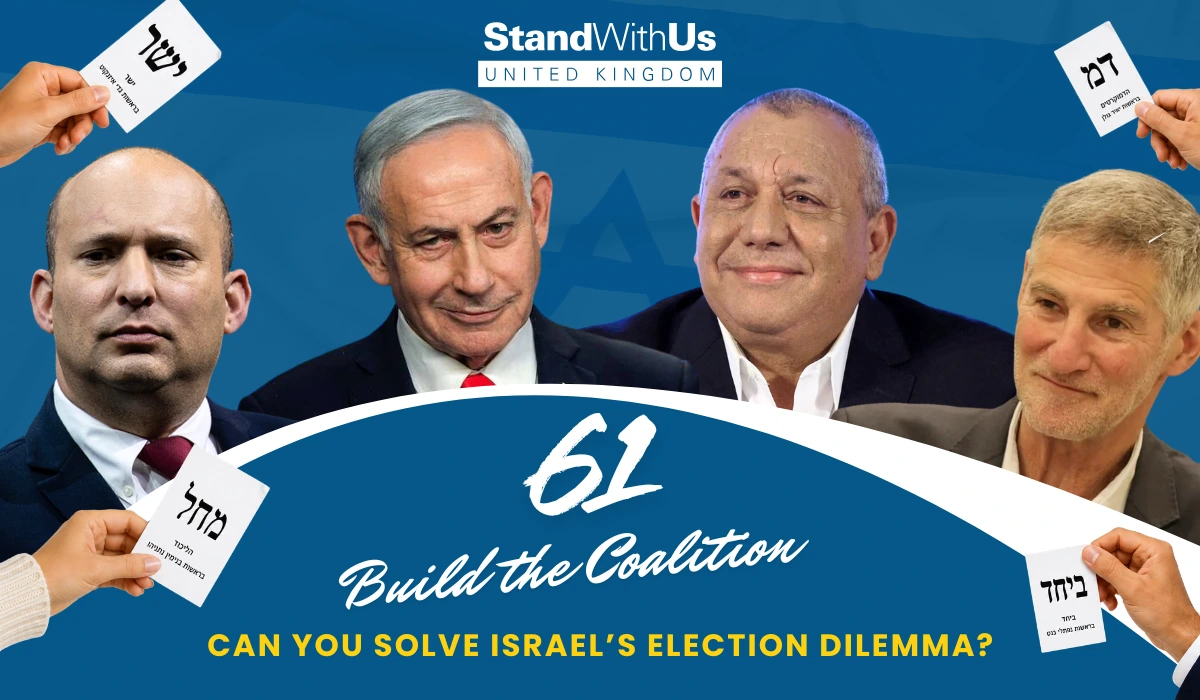
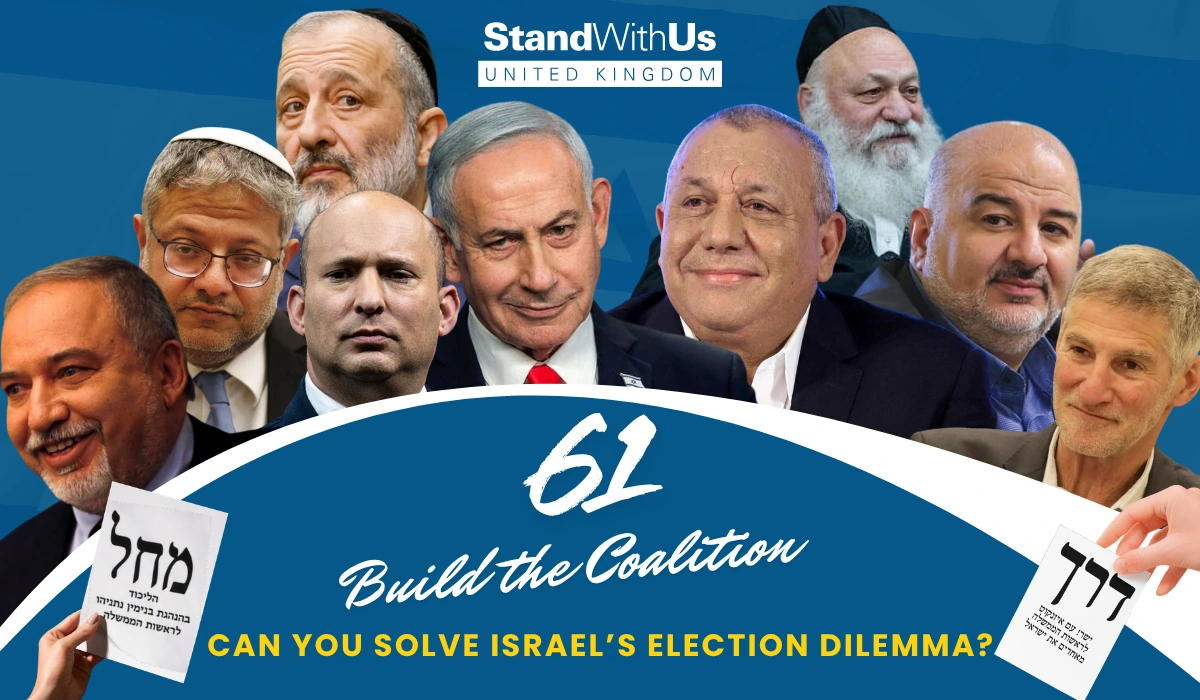
Update Poll of Polls and welcome artwork

diff --git a/data/election_updates.js b/data/election_updates.js
@@ -18,57 +18,57 @@ N12 / Channel 12
 i24NEWS
 KAN 11
 
-The current source polls were published between 5 and 11 October 2026.
+The current source polls were published between 11 and 13 October 2026.
 */
 
 window.ELECTION_UPDATES = {
 
   pollOfPolls: {
     label: "61 Poll of Polls",
-    updated: "12 October 2026",
+    updated: "14 October 2026",
     methodology: "Equal average of the latest N12, i24NEWS and KAN 11 election polls. Parties averaging fewer than 4 seats are treated as below the game threshold and removed before the remaining parties are allocated exactly 120 seats using the largest remainder method.",
     sources: [
-      {
+            {
         id: "channel12",
         name: "N12 / Channel 12",
         pollster: "Midgam",
-        date: "5 October 2026",
+        date: "12 October 2026",
         seats: {
-          likud: 21,
+          likud: 20,
           yashar: 23,
           byachad: 13,
           democrats: 9,
           yisrael_beitenu: 9,
-          shas: 7,
-          otzma_yehudit: 7,
-          utj: 8,
+          shas: 8,
+          otzma_yehudit: 8,
+          utj: 7,
           joint_arab_list: 8,
           raam: 5,
           hatzionut_hadati: 6,
           amcha_yisrael: 0
         }
       },
-      {
+            {
         id: "i24",
         name: "i24NEWS",
         pollster: "Direct Polls",
-        date: "8 October 2026",
+        date: "13 October 2026",
         seats: {
-          likud: 26,
-          yashar: 20,
-          byachad: 11,
-          democrats: 10,
+          likud: 27,
+          yashar: 21,
+          byachad: 13,
+          democrats: 9,
           yisrael_beitenu: 7,
           shas: 7,
           otzma_yehudit: 9,
           utj: 8,
           joint_arab_list: 7,
-          raam: 5,
+          raam: 6,
           hatzionut_hadati: 6,
-          amcha_yisrael: 4
+          amcha_yisrael: 0
         }
       },
-      {
+            {
         id: "kan11",
         name: "KAN 11",
         pollster: "Kantar",
@@ -259,7 +259,7 @@ DO NOT EDIT BELOW THIS LINE
   });
 
   game.electionMeta = game.electionMeta || {};
-  game.electionMeta.dataVersion = "5.2";
+  game.electionMeta.dataVersion = "5.3";
 
   game.electionMeta.seatPoll = {
     label: pop.label,

diff --git a/service_worker.js b/service_worker.js
@@ -1,4 +1,4 @@
-const CACHE='61_party_positions_button_2026_10_13';
+const CACHE='61_poll_and_welcome_2026_10_14';
 const ASSETS=[
   './',
   'index.html',
